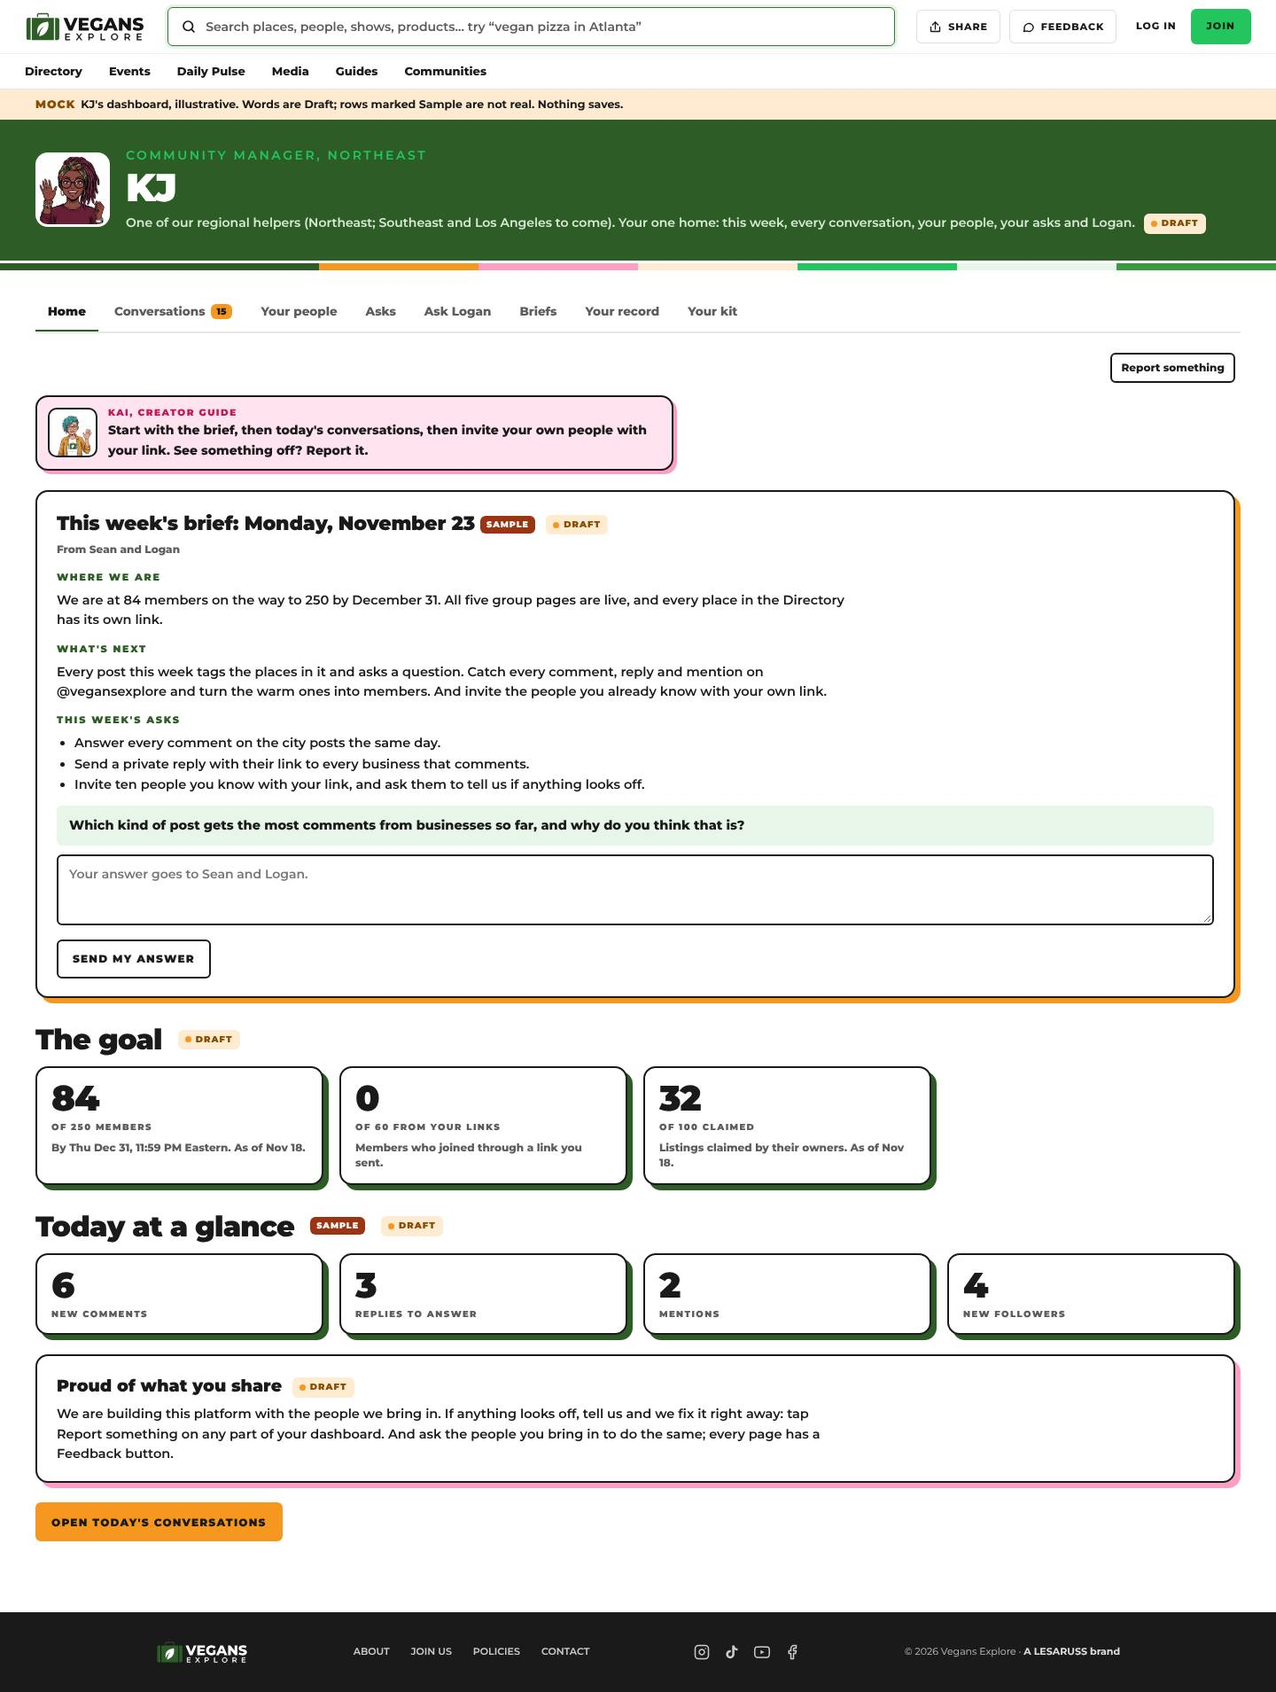
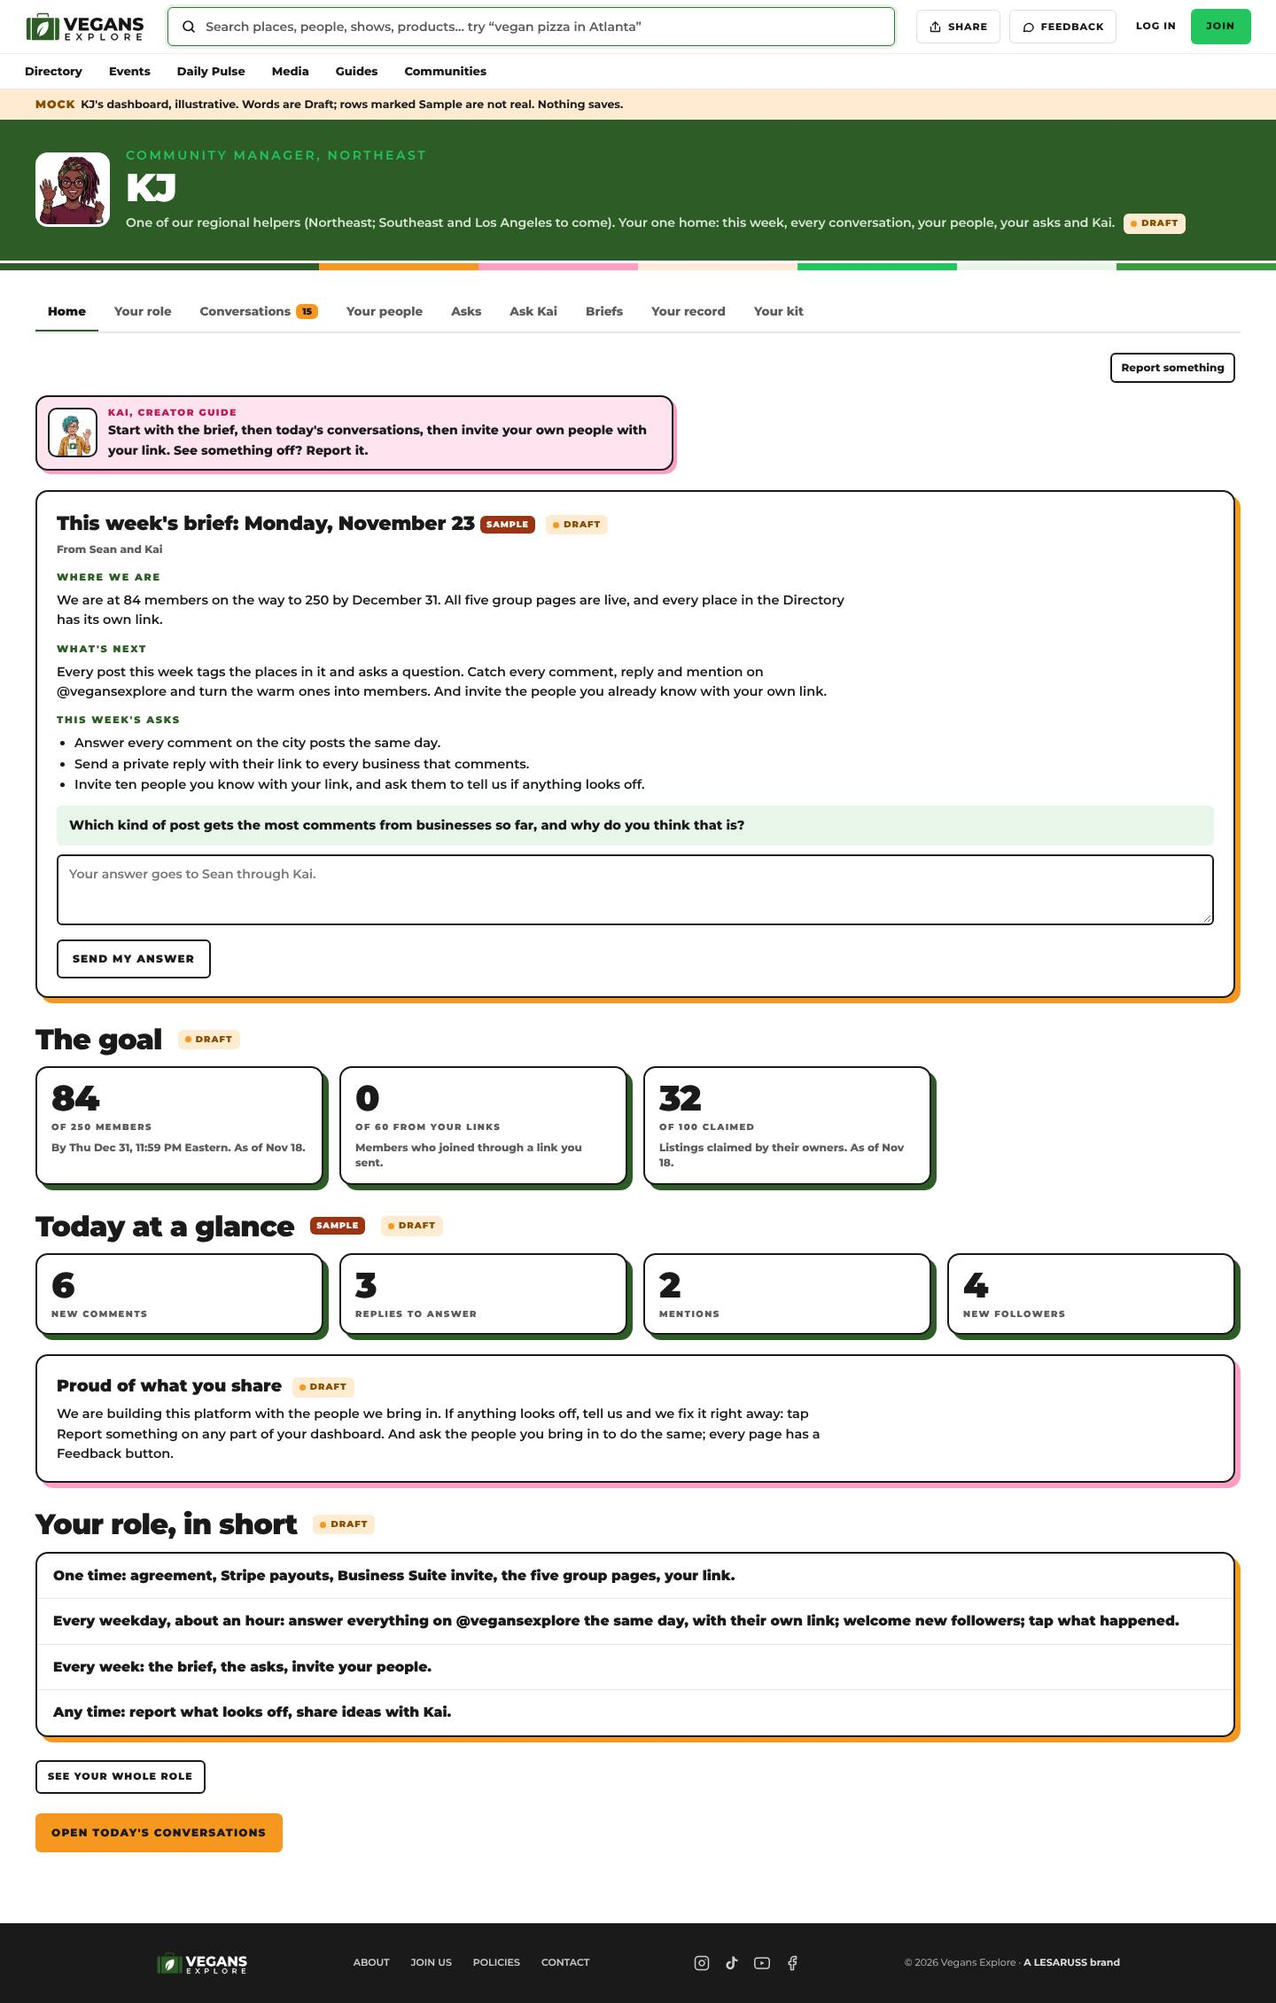
KJ dashboard mock: Kai is her interface (Ask Kai, no Logan); Your role part and short role on Home
Claude-Session: https://claude.ai/code/session_016TNa9U5PLMRvMdYUFfu2NP

Changed region(s): [[0.0, 0.0, 1.0, 0.989], [0.9688, 0.2472, 1.0, 0.2782]]

diff --git a/mocks/kj-dashboard/index.html b/mocks/kj-dashboard/index.html
@@ -6,7 +6,7 @@
   <meta name="viewport" content="width=device-width, initial-scale=1.0">
   <title>KJ's dashboard: mock — Vegans Explore</title>
   <meta name="robots" content="noindex,nofollow">
-  <meta name="description" content="Mock of KJ's one dashboard as community manager for @vegansexplore: the weekly brief, conversations, asks, Ask Logan, briefs, her record and her kit. Illustrative, not live.">
+  <meta name="description" content="Mock of KJ's one dashboard as community manager for @vegansexplore: the weekly brief, conversations, her role, asks, Ask Kai, briefs, her record and her kit. Illustrative, not live.">
   <link rel="icon" href="/public/favicon.ico">
   <link rel="preload" href="/public/fonts/montserrat-JTUSjIg1_i6t8kCHKm459Wlhyw.woff2" as="font" type="font/woff2" crossorigin><style>/* Montserrat, self-hosted (site health 2026-11-11): the same faces Google served, without the blocking stylesheet */@font-face{font-family:'Montserrat';font-style:normal;font-weight:400;font-display:swap;src:url(/public/fonts/montserrat-JTUSjIg1_i6t8kCHKm459WRhyzbi.woff2) format('woff2');unicode-range:U+0460-052F,U+1C80-1C8A,U+20B4,U+2DE0-2DFF,U+A640-A69F,U+FE2E-FE2F}@font-face{font-family:'Montserrat';font-style:normal;font-weight:400;font-display:swap;src:url(/public/fonts/montserrat-JTUSjIg1_i6t8kCHKm459W1hyzbi.woff2) format('woff2');unicode-range:U+0301,U+0400-045F,U+0490-0491,U+04B0-04B1,U+2116}@font-face{font-family:'Montserrat';font-style:normal;font-weight:400;font-display:swap;src:url(/public/fonts/montserrat-JTUSjIg1_i6t8kCHKm459WZhyzbi.woff2) format('woff2');unicode-range:U+0102-0103,U+0110-0111,U+0128-0129,U+0168-0169,U+01A0-01A1,U+01AF-01B0,U+0300-0301,U+0303-0304,U+0308-0309,U+0323,U+0329,U+1EA0-1EF9,U+20AB}@font-face{font-family:'Montserrat';font-style:normal;font-weight:400;font-display:swap;src:url(/public/fonts/montserrat-JTUSjIg1_i6t8kCHKm459Wdhyzbi.woff2) format('woff2');unicode-range:U+0100-02BA,U+02BD-02C5,U+02C7-02CC,U+02CE-02D7,U+02DD-02FF,U+0304,U+0308,U+0329,U+1D00-1DBF,U+1E00-1E9F,U+1EF2-1EFF,U+2020,U+20A0-20AB,U+20AD-20C4,U+2113,U+2C60-2C7F,U+A720-A7FF}@font-face{font-family:'Montserrat';font-style:normal;font-weight:400;font-display:swap;src:url(/public/fonts/montserrat-JTUSjIg1_i6t8kCHKm459Wlhyw.woff2) format('woff2');unicode-range:U+0000-00FF,U+0131,U+0152-0153,U+02BB-02BC,U+02C6,U+02DA,U+02DC,U+0304,U+0308,U+0329,U+2000-206F,U+20AC,U+2122,U+2191,U+2193,U+2212,U+2215,U+FEFF,U+FFFD}@font-face{font-family:'Montserrat';font-style:normal;font-weight:600;font-display:swap;src:url(/public/fonts/montserrat-JTUSjIg1_i6t8kCHKm459WRhyzbi.woff2) format('woff2');unicode-range:U+0460-052F,U+1C80-1C8A,U+20B4,U+2DE0-2DFF,U+A640-A69F,U+FE2E-FE2F}@font-face{font-family:'Montserrat';font-style:normal;font-weight:600;font-display:swap;src:url(/public/fonts/montserrat-JTUSjIg1_i6t8kCHKm459W1hyzbi.woff2) format('woff2');unicode-range:U+0301,U+0400-045F,U+0490-0491,U+04B0-04B1,U+2116}@font-face{font-family:'Montserrat';font-style:normal;font-weight:600;font-display:swap;src:url(/public/fonts/montserrat-JTUSjIg1_i6t8kCHKm459WZhyzbi.woff2) format('woff2');unicode-range:U+0102-0103,U+0110-0111,U+0128-0129,U+0168-0169,U+01A0-01A1,U+01AF-01B0,U+0300-0301,U+0303-0304,U+0308-0309,U+0323,U+0329,U+1EA0-1EF9,U+20AB}@font-face{font-family:'Montserrat';font-style:normal;font-weight:600;font-display:swap;src:url(/public/fonts/montserrat-JTUSjIg1_i6t8kCHKm459Wdhyzbi.woff2) format('woff2');unicode-range:U+0100-02BA,U+02BD-02C5,U+02C7-02CC,U+02CE-02D7,U+02DD-02FF,U+0304,U+0308,U+0329,U+1D00-1DBF,U+1E00-1E9F,U+1EF2-1EFF,U+2020,U+20A0-20AB,U+20AD-20C4,U+2113,U+2C60-2C7F,U+A720-A7FF}@font-face{font-family:'Montserrat';font-style:normal;font-weight:600;font-display:swap;src:url(/public/fonts/montserrat-JTUSjIg1_i6t8kCHKm459Wlhyw.woff2) format('woff2');unicode-range:U+0000-00FF,U+0131,U+0152-0153,U+02BB-02BC,U+02C6,U+02DA,U+02DC,U+0304,U+0308,U+0329,U+2000-206F,U+20AC,U+2122,U+2191,U+2193,U+2212,U+2215,U+FEFF,U+FFFD}@font-face{font-family:'Montserrat';font-style:normal;font-weight:700;font-display:swap;src:url(/public/fonts/montserrat-JTUSjIg1_i6t8kCHKm459WRhyzbi.woff2) format('woff2');unicode-range:U+0460-052F,U+1C80-1C8A,U+20B4,U+2DE0-2DFF,U+A640-A69F,U+FE2E-FE2F}@font-face{font-family:'Montserrat';font-style:normal;font-weight:700;font-display:swap;src:url(/public/fonts/montserrat-JTUSjIg1_i6t8kCHKm459W1hyzbi.woff2) format('woff2');unicode-range:U+0301,U+0400-045F,U+0490-0491,U+04B0-04B1,U+2116}@font-face{font-family:'Montserrat';font-style:normal;font-weight:700;font-display:swap;src:url(/public/fonts/montserrat-JTUSjIg1_i6t8kCHKm459WZhyzbi.woff2) format('woff2');unicode-range:U+0102-0103,U+0110-0111,U+0128-0129,U+0168-0169,U+01A0-01A1,U+01AF-01B0,U+0300-0301,U+0303-0304,U+0308-0309,U+0323,U+0329,U+1EA0-1EF9,U+20AB}@font-face{font-family:'Montserrat';font-style:normal;font-weight:700;font-display:swap;src:url(/public/fonts/montserrat-JTUSjIg1_i6t8kCHKm459Wdhyzbi.woff2) format('woff2');unicode-range:U+0100-02BA,U+02BD-02C5,U+02C7-02CC,U+02CE-02D7,U+02DD-02FF,U+0304,U+0308,U+0329,U+1D00-1DBF,U+1E00-1E9F,U+1EF2-1EFF,U+2020,U+20A0-20AB,U+20AD-20C4,U+2113,U+2C60-2C7F,U+A720-A7FF}@font-face{font-family:'Montserrat';font-style:normal;font-weight:700;font-display:swap;src:url(/public/fonts/montserrat-JTUSjIg1_i6t8kCHKm459Wlhyw.woff2) format('woff2');unicode-range:U+0000-00FF,U+0131,U+0152-0153,U+02BB-02BC,U+02C6,U+02DA,U+02DC,U+0304,U+0308,U+0329,U+2000-206F,U+20AC,U+2122,U+2191,U+2193,U+2212,U+2215,U+FEFF,U+FFFD}@font-face{font-family:'Montserrat';font-style:normal;font-weight:800;font-display:swap;src:url(/public/fonts/montserrat-JTUSjIg1_i6t8kCHKm459WRhyzbi.woff2) format('woff2');unicode-range:U+0460-052F,U+1C80-1C8A,U+20B4,U+2DE0-2DFF,U+A640-A69F,U+FE2E-FE2F}@font-face{font-family:'Montserrat';font-style:normal;font-weight:800;font-display:swap;src:url(/public/fonts/montserrat-JTUSjIg1_i6t8kCHKm459W1hyzbi.woff2) format('woff2');unicode-range:U+0301,U+0400-045F,U+0490-0491,U+04B0-04B1,U+2116}@font-face{font-family:'Montserrat';font-style:normal;font-weight:800;font-display:swap;src:url(/public/fonts/montserrat-JTUSjIg1_i6t8kCHKm459WZhyzbi.woff2) format('woff2');unicode-range:U+0102-0103,U+0110-0111,U+0128-0129,U+0168-0169,U+01A0-01A1,U+01AF-01B0,U+0300-0301,U+0303-0304,U+0308-0309,U+0323,U+0329,U+1EA0-1EF9,U+20AB}@font-face{font-family:'Montserrat';font-style:normal;font-weight:800;font-display:swap;src:url(/public/fonts/montserrat-JTUSjIg1_i6t8kCHKm459Wdhyzbi.woff2) format('woff2');unicode-range:U+0100-02BA,U+02BD-02C5,U+02C7-02CC,U+02CE-02D7,U+02DD-02FF,U+0304,U+0308,U+0329,U+1D00-1DBF,U+1E00-1E9F,U+1EF2-1EFF,U+2020,U+20A0-20AB,U+20AD-20C4,U+2113,U+2C60-2C7F,U+A720-A7FF}@font-face{font-family:'Montserrat';font-style:normal;font-weight:800;font-display:swap;src:url(/public/fonts/montserrat-JTUSjIg1_i6t8kCHKm459Wlhyw.woff2) format('woff2');unicode-range:U+0000-00FF,U+0131,U+0152-0153,U+02BB-02BC,U+02C6,U+02DA,U+02DC,U+0304,U+0308,U+0329,U+2000-206F,U+20AC,U+2122,U+2191,U+2193,U+2212,U+2215,U+FEFF,U+FFFD}@font-face{font-family:'Montserrat';font-style:normal;font-weight:900;font-display:swap;src:url(/public/fonts/montserrat-JTUSjIg1_i6t8kCHKm459WRhyzbi.woff2) format('woff2');unicode-range:U+0460-052F,U+1C80-1C8A,U+20B4,U+2DE0-2DFF,U+A640-A69F,U+FE2E-FE2F}@font-face{font-family:'Montserrat';font-style:normal;font-weight:900;font-display:swap;src:url(/public/fonts/montserrat-JTUSjIg1_i6t8kCHKm459W1hyzbi.woff2) format('woff2');unicode-range:U+0301,U+0400-045F,U+0490-0491,U+04B0-04B1,U+2116}@font-face{font-family:'Montserrat';font-style:normal;font-weight:900;font-display:swap;src:url(/public/fonts/montserrat-JTUSjIg1_i6t8kCHKm459WZhyzbi.woff2) format('woff2');unicode-range:U+0102-0103,U+0110-0111,U+0128-0129,U+0168-0169,U+01A0-01A1,U+01AF-01B0,U+0300-0301,U+0303-0304,U+0308-0309,U+0323,U+0329,U+1EA0-1EF9,U+20AB}@font-face{font-family:'Montserrat';font-style:normal;font-weight:900;font-display:swap;src:url(/public/fonts/montserrat-JTUSjIg1_i6t8kCHKm459Wdhyzbi.woff2) format('woff2');unicode-range:U+0100-02BA,U+02BD-02C5,U+02C7-02CC,U+02CE-02D7,U+02DD-02FF,U+0304,U+0308,U+0329,U+1D00-1DBF,U+1E00-1E9F,U+1EF2-1EFF,U+2020,U+20A0-20AB,U+20AD-20C4,U+2113,U+2C60-2C7F,U+A720-A7FF}@font-face{font-family:'Montserrat';font-style:normal;font-weight:900;font-display:swap;src:url(/public/fonts/montserrat-JTUSjIg1_i6t8kCHKm459Wlhyw.woff2) format('woff2');unicode-range:U+0000-00FF,U+0131,U+0152-0153,U+02BB-02BC,U+02C6,U+02DA,U+02DC,U+0304,U+0308,U+0329,U+2000-206F,U+20AC,U+2122,U+2191,U+2193,U+2212,U+2215,U+FEFF,U+FFFD}</style>
   <link rel="stylesheet" href="/public/ve-kit.css">
@@ -312,34 +312,49 @@
   var COPY = {
     eyebrow: 'Community Manager, Northeast',
     name: 'KJ',
-    line: 'One of our regional helpers (Northeast; Southeast and Los Angeles to come). Your one home: this week, every conversation, your people, your asks and Logan.',
+    line: 'One of our regional helpers (Northeast; Southeast and Los Angeles to come). Your one home: this week, every conversation, your people, your asks and Kai.',
     avatar: 'https://fwbhwfxpncrsfhttimna.supabase.co/storage/v1/object/public/vegan-media/media/people/keya-vegankween/avatar-geekfon-v3.jpg',
-    tabs: [['home', 'Home'], ['conversations', 'Conversations'], ['people', 'Your people'], ['asks', 'Asks'], ['logan', 'Ask Logan'], ['briefs', 'Briefs'], ['record', 'Your record'], ['kit', 'Your kit']],
+    tabs: [['home', 'Home'], ['role', 'Your role'], ['conversations', 'Conversations'], ['people', 'Your people'], ['asks', 'Asks'], ['ask', 'Ask Kai'], ['briefs', 'Briefs'], ['record', 'Your record'], ['kit', 'Your kit']],
     kai: {
       home: 'Start with the brief, then today\'s conversations, then invite your own people with your link. See something off? Report it.',
       people: 'The people you already know are yours to invite, any way you like. Businesses and listings still go through @vegansexplore.',
       conversations: 'Everyone who commented, replied, mentioned us, wrote or followed. Answer as Vegans Explore, with their own link.',
       asks: 'What Sean wants this week. Outside these, you have room: if you spot an opening, take it, and tell us under Your ideas.',
-      logan: 'Logan is here for instructions, information and questions. Decisions go to Sean.',
+      ask: 'Ask me anything. I answer what I can right away; everything you send here also goes to Sean, who answers within a day.',
+      role: 'This is everything you are responsible for, in four groups. If something is not on this list, it is not yours to do.',
       briefs: 'Every Monday: where we are, what is next, and a question for you.',
       record: 'Your taps are your record and your pay record.',
       kit: 'Everything you send people, ready to copy.'
     },
     home: {
       briefTitle: 'This week\'s brief: Monday, November 23',
-      briefFrom: 'From Sean and Logan',
+      briefFrom: 'From Sean and Kai',
       where: 'We are at 84 members on the way to 250 by December 31. All five group pages are live, and every place in the Directory has its own link.',
       next: 'Every post this week tags the places in it and asks a question. Catch every comment, reply and mention on @vegansexplore and turn the warm ones into members. And invite the people you already know with your own link.',
       asks: ['Answer every comment on the city posts the same day.', 'Send a private reply with their link to every business that comments.', 'Invite ten people you know with your link, and ask them to tell us if anything looks off.'],
       proudH: 'Proud of what you share',
       proud: 'We are building this platform with the people we bring in. If anything looks off, tell us and we fix it right away: tap Report something on any part of your dashboard. And ask the people you bring in to do the same; every page has a Feedback button.',
       question: 'Which kind of post gets the most comments from businesses so far, and why do you think that is?',
-      replyHint: 'Your answer goes to Sean and Logan.',
+      replyHint: 'Your answer goes to Sean through Kai.',
       goalH: 'The goal',
       goal: [['84', 'of 250 members', 'By Thu Dec 31, 11:59 PM Eastern. As of Nov 18.'], ['0', 'of 60 from your links', 'Members who joined through a link you sent.'], ['32', 'of 100 claimed', 'Listings claimed by their owners. As of Nov 18.']],
       todayH: 'Today at a glance',
       today: [['6', 'New comments'], ['3', 'Replies to answer'], ['2', 'Mentions'], ['4', 'New followers']],
       go: 'Open today\'s conversations'
+    },
+    role: {
+      h: 'Your role',
+      groups: [
+        ['One time, to get started', 't-need', ['Sign the agreement.', 'Set up payouts with Stripe.', 'Accept the Business Suite invite.', 'Read the five group pages, so you know where people land.', 'Save your link: vegansexplore.com/go/keya.']],
+        ['Every weekday, about an hour', 't-new', ['Answer every comment, reply, mention and message on @vegansexplore, the same day, as Vegans Explore.', 'Send a private reply with their own link to every business or person who comments.', 'Welcome new followers, ask which group they are, and send their page.', 'Tap what happened on each conversation: Replied, Link sent, Joined.']],
+        ['Every week', 't-tip', ['Read Monday\'s brief and answer its question.', 'Do this week\'s asks.', 'Invite people you already know with your link.']],
+        ['Any time', 't-done', ['Report anything that looks off (Report something, on every part).', 'Share ideas with Kai.', 'Ask the people you bring in to tell us what to fix.']]
+      ],
+      neverH: 'Never',
+      never: 'Post or change anything on @vegansexplore, touch its profile, settings or password, or start cold messages from @vegansexplore.',
+      shortH: 'Your role, in short',
+      short: ['One time: agreement, Stripe payouts, Business Suite invite, the five group pages, your link.', 'Every weekday, about an hour: answer everything on @vegansexplore the same day, with their own link; welcome new followers; tap what happened.', 'Every week: the brief, the asks, invite your people.', 'Any time: report what looks off, share ideas with Kai.'],
+      more: 'See your whole role'
     },
     convo: {
       h: 'Conversations',
@@ -379,23 +394,23 @@
       ideasLede: 'Spot something we should try? Send it. It goes to Sean.',
       ideasBtn: 'Send to Sean'
     },
-    logan: {
-      h: 'Ask Logan',
-      lede: 'Logan answers within a day. Anything that is a decision goes to Sean, and you will see his answer here.',
+    ask: {
+      h: 'Ask Kai',
+      lede: 'Kai answers right away when Kai knows the answer. Anything you send (questions, ideas, reports, brief answers) goes to Sean, who answers within a day, and the answer shows up here.',
       thread: [
         { me: true, smp: true, t: 'A bakery asked if they can add more photos after they claim. What do I tell them?', at: 'Mon 10:12 AM' },
-        { me: false, smp: true, t: 'Yes: once they claim, their dashboard lets them update their page. Send them their link and say Liz walks them through it. Copy their link is on their row.', at: 'Mon 10:20 AM, Logan' },
+        { me: false, smp: true, t: 'Yes: once they claim, their dashboard lets them update their page. Send them their link and say Liz walks them through it. Copy their link is on their row.', at: 'Mon 10:20 AM, Kai' },
         { me: true, smp: true, t: 'Can I comment on a business\'s own post to say congrats?', at: 'Mon 2:05 PM' },
-        { me: false, smp: true, t: 'Good idea, and that one is a decision, so I asked Sean. He said yes, as Vegans Explore, from Business Suite. Keep it short and real.', at: 'Mon 4:40 PM, Logan' }
+        { me: false, smp: true, t: 'Sean says yes: as Vegans Explore, from Business Suite. Keep it short and real.', at: 'Mon 4:40 PM, Sean, through Kai' }
       ],
-      ask: 'Ask Logan anything',
+      ask: 'Ask Kai anything',
       askBtn: 'Send'
     },
     briefs: {
       h: 'Briefs',
       rows: [
         { smp: true, t: 'Week of November 23: the city posts start', p: 'Where we are, the first tagged posts, your three asks, and a question about what gets businesses to comment.', tag: ['t-new', 'This week'], btn: 'Read' },
-        { smp: true, t: 'Welcome: how this works', p: 'Your role, the 250 goal, what you never do, and how to reach Logan.', tag: ['t-done', 'Replied'], btn: 'Read' }
+        { smp: true, t: 'Welcome: how this works', p: 'Your role, the 250 goal, what you never do, and how to reach Kai.', tag: ['t-done', 'Replied'], btn: 'Read' }
       ]
     },
     record: {
@@ -450,7 +465,17 @@
         sec(h.goalH) + '<div class="totals">' + h.goal.map(tot).join('') + '</div>' +
         sec(h.todayH, S) + '<div class="totals">' + h.today.map(tot).join('') + '</div>' +
         '<div class="card" style="--c:var(--pink)"><h3 style="margin:0 0 6px;font-size:19px;font-weight:900">' + esc(h.proudH) + D + '</h3><p style="font-size:14.5px;font-weight:600;line-height:1.55;margin:0;max-width:900px">' + esc(h.proud) + '</p></div>' +
+        sec(COPY.role.shortH) + '<div class="rows need">' + COPY.role.short.map(function (t) { return '<div class="r"><div><b>' + esc(t) + '</b></div></div>'; }).join('') + '</div>' +
+        '<p style="margin:0 0 22px"><a class="btn btn-sm" href="?tab=role">' + esc(COPY.role.more) + '</a></p>' +
         '<a class="btn btn-go" href="?tab=conversations">' + esc(h.go) + '</a>';
+    },
+    role: function () {
+      var r = COPY.role;
+      return kai('role') + sec(r.h) + r.groups.map(function (g) {
+        return '<h3 style="font-size:17px;font-weight:900;margin:18px 0 10px">' + esc(g[0]) + '</h3><div class="rows">' + g[2].map(function (t) {
+          return '<div class="r"><div class="chk"><input type="checkbox" aria-label="Done"><div><b>' + esc(t) + '</b></div></div><span class="tag ' + g[1] + '">' + esc(g[0].split(',')[0]) + '</span></div>';
+        }).join('') + '</div>';
+      }).join('') + '<h3 style="font-size:17px;font-weight:900;margin:18px 0 10px">' + esc(r.neverH) + '</h3><div class="rows"><div class="r"><div><b>' + esc(r.never) + '</b></div><span class="tag t-flag">Never</span></div></div>';
     },
     people: function () {
       var p = COPY.people;
@@ -472,12 +497,12 @@
     asks: function () {
       var a = COPY.asks;
       return kai('asks') + sec(a.h) + '<div class="rows need">' + a.items.map(function (i) {
-        return '<div class="r"><div class="chk"><input type="checkbox" aria-label="Done"><div><b>' + esc(i.t) + (i.smp ? S : '') + '</b><p>Due ' + esc(i.due) + '</p></div></div><span class="tag t-need">To do</span><button type="button" class="btn btn-sm">Ask Logan</button></div>';
+        return '<div class="r"><div class="chk"><input type="checkbox" aria-label="Done"><div><b>' + esc(i.t) + (i.smp ? S : '') + '</b><p>Due ' + esc(i.due) + '</p></div></div><span class="tag t-need">To do</span><button type="button" class="btn btn-sm">Ask Kai</button></div>';
       }).join('') + '</div>' + sec(a.ideasH) + '<p class="lede">' + esc(a.ideasLede) + '</p><textarea class="ta" aria-label="Your idea"></textarea><button type="button" class="btn btn-go">' + esc(a.ideasBtn) + '</button>';
     },
-    logan: function () {
-      var l = COPY.logan;
-      return kai('logan') + sec(l.h) + '<p class="lede">' + esc(l.lede) + '</p><div class="chat">' + l.thread.map(function (m) {
+    ask: function () {
+      var l = COPY.ask;
+      return kai('ask') + sec(l.h) + '<p class="lede">' + esc(l.lede) + '</p><div class="chat">' + l.thread.map(function (m) {
         return '<div class="bub ' + (m.me ? 'me' : 'lg') + '">' + esc(m.t) + (m.smp ? S : '') + '<small>' + esc(m.at) + '</small></div>';
       }).join('') + '</div><textarea class="ta" placeholder="' + esc(l.ask) + '" aria-label="' + esc(l.ask) + '"></textarea><button type="button" class="btn btn-go">' + esc(l.askBtn) + '</button>';
     },
